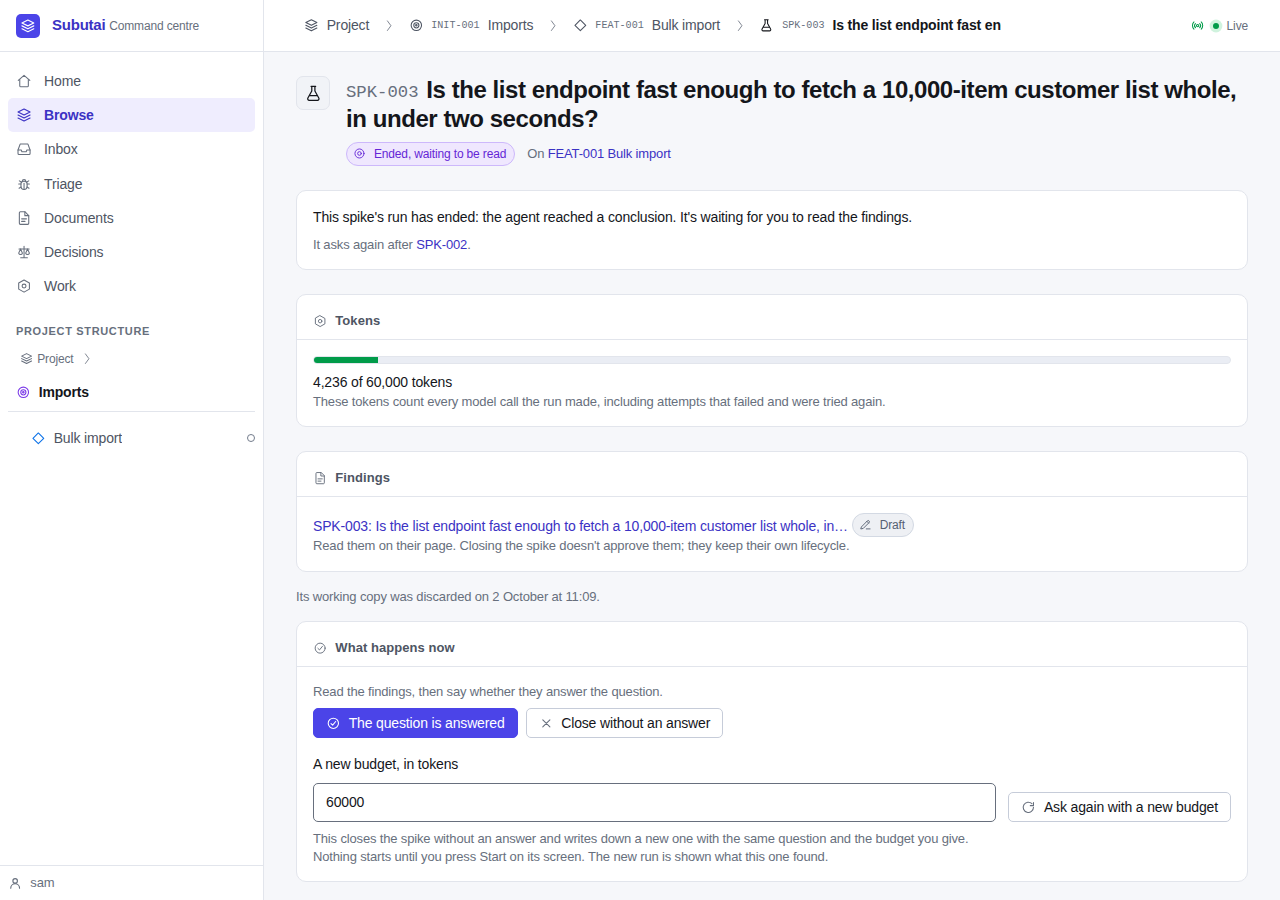
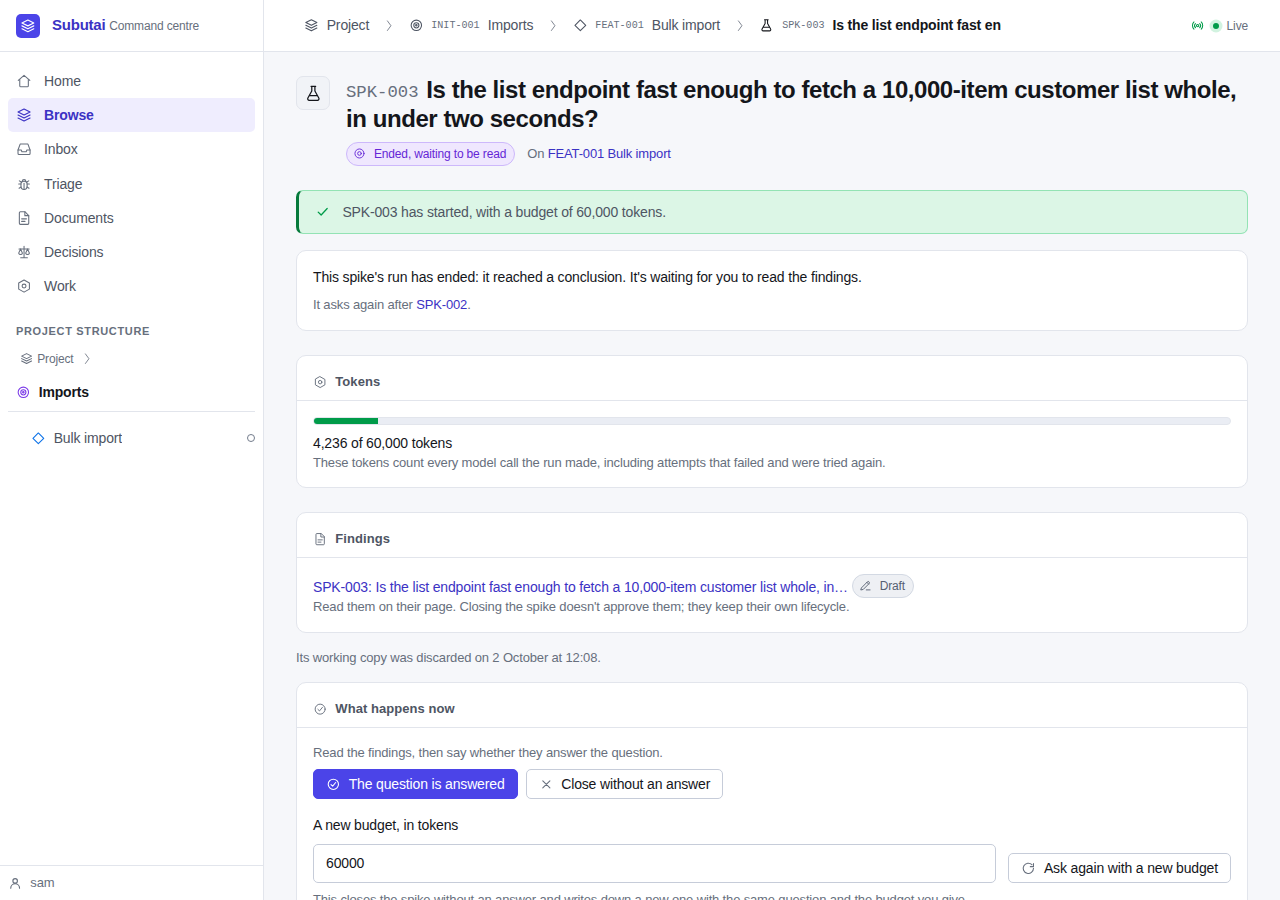
docs: SPEC-021 walkthrough, and the round-3 code reviews
Claude-Session: https://claude.ai/code/session_01WBzM8Gnf3d2js91g8pqbep

diff --git a/docs/walkthrough-spec-021/walk.js b/docs/walkthrough-spec-021/walk.js
@@ -31,7 +31,7 @@ const mcp = (name, args) => {
   mcp('create_initiative', { slug: 'imports', name: 'Imports', description: 'Bring a customer\'s existing records into the product.' });
   mcp('create_feature', { initiative_path: 'imports', slug: 'bulk-import', name: 'Bulk import', description: 'Import a whole customer list in one go.', design_document: false });
   const chat = mcp('create_spike', { on: 'imports/bulk-import', question: 'Can the import screen show a progress bar that updates every second?' });
-  mcp('start_spike', { id: chat.id || 'SPK-001' });
+  mcp('start_spike', { spike: chat.id || 'SPK-001' });
 
   const browser = await chromium.launch({ executablePath: '/opt/pw-browsers/chromium', args: ['--no-proxy-server'] });
   const page = await browser.newPage({ viewport: { width: 1280, height: 900 } });
@@ -115,7 +115,7 @@ const mcp = (name, args) => {
   await shot('12-second-spike-start-screen.png', 'text=What the agent will be given');
   await page.locator('form[action="/ui/spikes/start"] button[type=submit]').click();
   await expectText('has started, with a budget of 60,000 tokens');
-  await reloadUntil('the agent reached a conclusion');
+  await reloadUntil('it reached a conclusion');
   await shot('13-second-spike-concluded.png');
   await page.locator('a[href^="/ui/d/"]').first().click();
   await expectText('well inside the two-second target');
@@ -135,7 +135,7 @@ const mcp = (name, args) => {
   await shot('17-spikes-list.png');
 
   // 10. The chat agent reads what happened.
-  mcp('get_spike', { id: 'SPK-003' });
+  mcp('get_spike', { spike: 'SPK-003' });
 
   fs.writeFileSync(`${out}/mcp-output.txt`, log.join('\n') + '\n');
   await browser.close();

diff --git a/docs/reviews/REVIEW-021-spikes/code-round-3-bugs.md b/docs/reviews/REVIEW-021-spikes/code-round-3-bugs.md
@@ -1,0 +1,137 @@
+# M14 (spikes), round 3: bugs and spec-conformance review
+
+Branch `claude/subutai-m14-spikes` at `4a565d3`. Fix diff reviewed: `00e918e..HEAD`, plus a final pass over `git diff main...HEAD -- internal cmd`. Contract: SPEC-021, with FR-6.3 as amended.
+
+**Verdict: no major defects remain.** Round-2 finding 1 is fixed, and the fix holds up. Every other round-2 minor is either fixed or written into FR-6.3 as an accepted limit, except 7 (findings on disk for a TODO question) and 8 (tokens added after the end). I found three new minor issues.
+
+How I checked:
+- `go vet ./...` is clean.
+- `SUBUTAI_TEST_DB_SUFFIX=_rev3 go test -race -count=1 ./...` passes in every package. The server package took 182s, so the integration tests ran.
+- I tested `rev-list --stdin` with `^sha` lines, including a negated blob tag and a missing object, using plain git in the scratchpad (now deleted).
+- I edited no repository files. `git status` is **not** clean, but not because of this review. Another session is running `docs/walkthrough-spec-021/walk.js` (pids 19295 and 20000, started 12:06) and is rewriting `docs/walkthrough-spec-021/*.png`. I left those files alone.
+
+## New findings
+
+### N1. minor: the retry-time record hides leaks made after the working copy is remade
+**Where:**
+- `internal/server/spikes_leak.go:68-70`: `spikeKept` returns any earlier `spike.code_kept` record unchanged.
+- `spikes_end.go:247-254`: the check that runs before the remake.
+
+**What happens:**
+1. A retry finds a used working copy damaged. The check finds a leak (say `keep-1`) and records it.
+2. The worktree is remade. Its old reflog is pruned and a new one starts.
+3. In the new working copy, the agent commits and branches `keep-2`.
+4. At the end of the run, `spikeKept` finds the earlier record and returns it without checking again.
+
+The findings and the checkpoint name only `keep-1`. A person is still warned that code was kept, so this is not fail-open, but the list of refs is incomplete. The same short-circuit happens when the retry check could not run at all.
+
+There is a second, more contrived gap. When the retry check finds nothing, nothing is recorded, and the old reflog is pruned anyway. Commits made before the remake can then be put on a ref by their SHA from the new working copy, and nothing reports them. That needs deliberate evasion, close to the limits FR-6.3 already accepts.
+
+**Fix:** at the end of the run, always run the check against the current working copy. Merge its refs with the earlier record's, and do not raise a second checkpoint while one is still pending; `CreateCheckpoint` is already idempotent for that. Alternatively, before the remake, add the old reflog's "made" SHAs to a stored set that the end-of-run check also uses.
+
+### N2. minor: the check before a remake doesn't re-read the spike under `spikeEndMu`, so a racing ending can raise a false "couldn't check" checkpoint
+**Where:** `spikes_end.go:247-251`. `sp` was read by `planSpike` (`spikes_plan.go:101-108`) before the lock was taken.
+
+**What happens:**
+1. An attempt is given up while it is still in `planSpike`, for example after a stall during planning.
+2. `DispatchExhausted` triggers `EndSpike`. That runs the check, finds nothing, so records nothing, then discards the working copy and its admin dir.
+3. The old goroutine then sees no `.git` and calls `spikeKept`. There is no earlier record, and git has no admin dir.
+4. Because `TokensUsed > 0`, the check reports "the working copy was removed". It writes an audit row and raises a `spike-code-kept` checkpoint on a spike that has already ended cleanly.
+5. It then remakes a worktree for the ended spike. The leftover sweep removes that on the next heartbeat. The plan itself is stopped by `stillCurrent` before any model call.
+
+The window is narrow, and the race already existed for the remake. The spurious checkpoint is new.
+
+**Deadlock:** none. `ensureSpikeWorktree` is called only from `planSpike` and from tests. `planSpike` is never reached while `spikeEndMu` is held: `EndSpike`, `recordSpikeEnd`, `finishSpikeEnding` and the reconcile `finish` closure don't plan or dispatch synchronously. Go's mutex is not re-entrant, but nothing re-enters it.
+
+**Fix:** inside the lock, run `cur, err := store.GetSpike(...)`. If `cur.State != store.SpikeRunning`, return an error ("… is not running") before running the check or the remake. Pass `cur` to `spikeKept`, so `TokensUsed` is current too.
+
+### N3. minor (nit): `escapeLeadingHash` handles only `#`
+**Where:** `spikes.go:639-646`.
+
+**What happens:** a question that begins with `- `, `* `, `+ `, `> `, `1. `, `|` or `===` still renders as a list, a quote, a table or a setext underline inside the Question section. `#` was the case actually reported, and the fix is correct for it. The title line `# # of workers…` renders correctly.
+
+**Fix:** escape the first character when it is one of the Markdown block starters, or accept the behaviour.
+
+## Round-2 finding 1: the fix is sound
+
+The `?did=` change and `escapeLeadingHash` were part of this item's diff. Their verdicts are the round-2 table's rows 6 and 7 and new finding N3.
+
+- **`leakedRefs` fails closed** (`spikes_leak.go:131-142`).
+  - A missing admin dir plus a missing directory plus `TokensUsed > 0` gives "the working copy was removed, so git's record of it is gone".
+  - `TokensUsed > 0` is a sound signal. `runLoop` calls `b.Add` (which runs `AddSpikeTokens`) after every model call and before any tool runs (`dispatch.go:481-487` and `:530`), and the planner makes the worktree before the first call. No tool can run in a working copy while `tokens_used` is still 0.
+  - One caveat: the signal relies on the provider reporting usage. Only the Anthropic provider exists, and it always does.
+  - `EndSpike` re-reads the spike under the lock (`spikes_end.go:71`), so `TokensUsed` is current there.
+  - Tested by "a working copy deleted and pruned away", including the `couldnt_check` payload.
+- **The check before a remake** (`spikes_end.go:247-254`). It runs only when `.git` is missing and tokens were used.
+  - If the `.git` file was removed but the admin dir survives, `worktreeAdminDir` still finds it through `gitdir`, so the reflog is read before `prune` deletes it.
+  - Tested by "a damaged working copy that a retry would remake": one audit row and one checkpoint.
+  - No deadlock. There is a race, which is N2. The incomplete record is N1.
+- **De-duplication.** `spikeKept` returns the earlier `SpikeKeptRecord`, so the end of the run writes neither a second audit row nor a second checkpoint.
+  - `CreateCheckpoint` was **not changed** by M14. `ON CONFLICT … DO NOTHING` returning `nil, nil` is how it already behaved on main. Only the comment at `spikes_leak.go:99` is new.
+  - `notifyCheckpointRaised(nil)` is a no-op (`ui.go:1055`).
+  - No other kind of checkpoint is affected.
+- **`gitInWithStdin` and `rev-list --stdin`.** Lines of SHAs and `^sha` give the same set as `<made…> --not base refs…`.
+  - Verified with plain git. A `^` on an annotated tag or a blob is accepted.
+  - A start-ref object that has since been garbage-collected gives "bad object", and the check fails closed. That was already true when the SHAs were passed as arguments.
+  - Stderr is captured and quoted in the reason.
+- **Payload.** `refs` is now `[]`, never `null`, and `couldnt_check` is added. The test asserts both.
+- **`Run` field and `observe.go` `conclude`.**
+  - The change is inside `if d.Purpose == "run-spike"`, and runs only after the `failed`/`cancelled`/`queued`/`running` and `!IsLatest` returns. Non-spike run pages are unchanged.
+  - The concluded, budget and turn-limit sentences are word-for-word as before, matching FR-8.4.
+  - New: a succeeded run-spike dispatch whose spike ended `failed`, or ended in an unknown way, now says "Its run failed." or "Its run is over." Before, it fell through to the outcome JSON. This is harmless, and more accurate.
+
+## Verification table: round 2's findings
+
+| # | Sev | Finding | Status | Evidence |
+|---|---|---|---|---|
+| 1 | major | Fails open when the working copy is deleted and pruned, or remade on a retry | **Fixed** | `spikes_leak.go:131-142`, `spikes_end.go:247-254`, FR-6.3 amended, two new subtests. Residuals: N1 and N2 (minor). |
+| 2 | minor | Reflog-message spoof; `commit-tree` / `update-ref` | **Accepted limit** | FR-6.3 "What the check can't see", bullet 2. |
+| 3 | minor | False positive on merge, rebase or pull of a newer main | **Accepted limit** | FR-6.3 "It may also report too much…". The checkpoint is dismissable. |
+| 4 | minor | `core.logAllRefUpdates=false` means every spike reports "couldn't check" | **Accepted limit** | FR-6.3 bullet 3 ("the safe direction"). |
+| 5 | minor | Start-ref SHAs on the command line (E2BIG) | **Fixed** | `gitInWithStdin` and `rev-list --stdin` (`planner.go:482-495`, `spikes_leak.go:160-165`). One `rev-list` is still spawned per changed ref (`:187`), which is fine at normal scale. |
+| 6 | minor | A crafted `?did=` shows a false notice | **Fixed** | `answered`/`unanswered` compare `ClosedAs`; `started` needs `StartedAt` (`ui_spikes.go:461-470`); `TestSpikeNoticeSaysOnlyWhatHappened`. `did=started` on an ended or closed spike that did run still says "has started, with a budget of …". That is true, so I accept it. |
+| 7 | minor | Findings for a TODO or `{{` question don't validate on disk; leading `#` | **Partly fixed** | The leading `#` is escaped and tested. The TODO/`{{` file on disk still fails `lifecycle.Validate`. FR-2.1 doesn't accept this, and the manifest doesn't exempt the Question. **Open.** |
+| 8 | minor | `AddSpikeTokens` adds to an ended spike; the page note doesn't explain it | **Not fixed** | `store/spikes.go:297-305` is unchanged, and so is the TokensNote at `ui_spikes.go:302`. **Open.** |
+| 9 | minor | Checkpoint payload `"refs": null`, no `couldnt_check` | **Fixed** | `spikes_leak.go:86-92`; asserted in a test. |
+| 10a | minor | Dead `OpenSpikesUnderInitiative` | **Fixed** | Deleted, and its test is reduced to `TestEndedSpikesCount`. |
+| 10b | minor | `src == "override"` | **Fixed** | `store.BudgetFromOverride` and `BudgetFromDefault` (`ui_spikes.go:306`, `:595`). |
+| 10c | minor | `conclude` has its own switch | **Fixed** | `SpikeEndingOf(...).Run`. |
+| 10d | minor | MCP's own budget-source words | **Fixed** | `spikeBudgetSourceWords` (`mcp_spike_tools.go:194-199`). |
+| 10e | minor | `spikeOwnerRef` branches on `FeatureID` | **Fixed** | It uses `sp.Owner()` and carries `URL` (`ui_spikes.go:109-125`). |
+| 10f | minor | The POSTs answer a bad id with 400 | **Resolved** | Unknown id gives 404 through `notFoundOrErr`, malformed gives 400; `TestSpikePostsAnswerBadIDs`. |
+
+## Final adversarial pass (`main...HEAD -- internal cmd`): no new major defects
+
+- **The hard stop** (`dispatch.go:452-560`).
+  - Before every call, the run stops when `spent >= Limit`, or after turn 0 when `spent + lastCall > Limit`.
+  - Every paid call is added before its tools run. On the crossing turn, only `EarlyTools` run. An outcome on the crossing turn concludes, as FR-5 says. A failed validation on the crossing turn then stops.
+  - A nudge on the last turn is still a budget stop.
+  - Known and accepted: a call can overshoot the budget by up to its own size, and a retried attempt's first call has no `lastCall` estimate (`turn > 0`). Both are bounded by `spent >= Limit`.
+- **No-merge path.**
+  - The worktree is made `--detach`, so it has no branch.
+  - `isWorktreePurpose` adds `run-spike` only for profile tools.
+  - `decideDispatchSucceeded` and `DispatchExhausted` route `run-spike` to the spike rules before anything in phase 2, so no merge or verification action can fire.
+  - Milestone membership refuses spikes in the API, MCP and UI forms. `resolveOwner` and `mcpResolveOwner` refuse attaching documents to a spike.
+- **Start and close only from the web UI.**
+  - The only callers of `StartSpike` and `CloseSpike` are `ui_spikes.go:684` and `:748`.
+  - No `/api` route or MCP tool starts or closes a spike.
+  - The MCP `initialize` text says so.
+- **Regressions to features and bugs.**
+  - `FeatureHistory` adds only `spike.started` and `spike.ended` (`WHERE e.ref_type <> 'spike' OR …`). `FeatureRuns` and the token totals are untouched.
+  - The timeline `CurrentIndex` and aside logic leave the current moment of a feature without spikes where it was. The feature and bug timeline tests pass.
+  - G5 adds open spike IDs through `G5Open`, on both archive routes.
+  - The changes in `groupThousands` and `memberFromForm` keep their behaviour.
+  - `answerOptions` adds only the `spike-code-kept` kind.
+  - The full suite passes.
+
+## Minor findings still open across all rounds (bug-report candidates)
+
+1. **N1:** the record made before a remake is final, so leaks made after the remake aren't named. A clean pre-remake check also drops the old reflog's commits (`spikes_leak.go:68-70`, `spikes_end.go:247-254`).
+2. **N2:** the check before a remake doesn't re-read the spike's state under `spikeEndMu`, so a racing `EndSpike` can raise a spurious "couldn't check" checkpoint on an ended spike, and a worktree is remade for it (`spikes_end.go:247-251`).
+3. **N3:** only a leading `#` is escaped in the findings' Question. Other Markdown block starters still render as blocks (`spikes.go:639-646`).
+4. **R2-7 / R1-1 residual:** the findings file on disk for a question containing TODO or `{{` fails `lifecycle.Validate`. Either accept this in FR-2.1, or exempt the Question section in the findings manifest.
+5. **R2-8 / R1-9:** `AddSpikeTokens` still adds to an ended spike (`store/spikes.go:297-305`), so the page's total can differ from the findings. Either guard the update with `AND state = 'running'`, or extend the TokensNote.
+6. **R2-5 residual (scale):** one `rev-list` is spawned per changed ref (`spikes_leak.go:187`). Fine today; batch it if repositories with many moving refs matter.
+7. **Quality-round leftover:** the `StartScreen.Workers/Running/Free` trio is kept. It was optional.
+
+These are accepted limits written into FR-6.3, not bugs: the reflog-message spoof and `commit-tree`/`update-ref`; commits made outside the worktree; `core.logAllRefUpdates=false`; and the false positive when the agent merges a newer main.

diff --git a/docs/walkthrough-spec-021.md b/docs/walkthrough-spec-021.md
@@ -1,0 +1,170 @@
+# Walkthrough — SPEC-021, spikes
+
+**Date:** 2026-10-02
+**Spec:** [SPEC-021](specs/SPEC-021-spikes.md), draft for Sam's approval
+**Review:** [REVIEW-021](reviews/REVIEW-021-spikes.md)
+**Handoff:** [M14 handoff](notes/handoff-M14-2026-10-02.md)
+
+This is the definition-of-done demo (SPEC-021 DoD 8). It ran a throwaway
+project on a real Postgres **with no AI provider**. The project lived at
+`/var/tmp/m14demo`, a short path, because a unix socket path can't be longer
+than 108 bytes. The person's side ran in the browser, with Playwright and the
+pre-installed Chromium. The chat agent's side ran as plain MCP JSON-RPC calls,
+which is what a chat AI sends.
+
+**How a spike ran without a model.** The provider's `base_url` points at
+[`fake_provider.py`](walkthrough-spec-021/fake_provider.py), a small HTTP
+server that speaks the Messages API and plays the spike's agent from a
+script. It isn't a model, and it decides nothing about Subutai's behaviour:
+- a first spike saves a draft with `save_findings`, then keeps listing files
+  and never finishes, so it runs into its budget;
+- a spike that asks again (its prompt holds "# What the last spike found")
+  saves its findings and finishes with `finish_spike`.
+
+Its token counts are a quarter of each request's size, so the totals grow
+the way a real conversation's do. Everything else, from the start screen to
+the hard stop, the write-up, the discarded worktree and the close, is the
+real server.
+
+The scripts are in [walkthrough-spec-021/](walkthrough-spec-021/):
+
+```sh
+bash docs/walkthrough-spec-021/setup.sh
+node docs/walkthrough-spec-021/walk.js docs/walkthrough-spec-021
+```
+
+The chat agent's calls are kept in
+[mcp-output.txt](walkthrough-spec-021/mcp-output.txt), and the demo
+repository's history, worktrees and branches after the walk in
+[repo-after.txt](walkthrough-spec-021/repo-after.txt).
+
+## What the chat agent can and can't do
+
+The chat agent plans an initiative and a feature, and writes a spike's
+question down with `create_spike`. The spike is `SPK-001`, an idea, with the
+project's default budget of 1,000,000 tokens. It then tries `start_spike`,
+and the server answers "there is no tool called "start_spike" on this
+server". Starting a spike spends tokens, so only a person can do it, in the
+web UI (SD-5).
+
+## 1. A person writes a spike down
+
+On the feature's page, **New spike** opens a dialog with the question and an
+optional budget. Sam asks whether the list endpoint is fast enough to fetch a
+10,000-item list whole, with a budget of 20,000 tokens.
+
+![The New spike dialog](walkthrough-spec-021/01-new-spike-dialog.png)
+
+The feature's page now lists both spikes in its **Spikes** section.
+
+![Spikes on the feature](walkthrough-spec-021/02-spikes-on-the-feature.png)
+
+The spike's own page says it hasn't started yet, and offers **Start this
+spike…** and **Close without running**.
+
+![The spike, not started](walkthrough-spec-021/03-spike-not-started.png)
+
+## 2. The start screen
+
+Before anything is committed, the start screen shows the question, who will
+run it ("The spike runner runs it, on claude-sonnet-5."), the free agent
+slots, the forecast (there aren't enough earlier spikes yet), the budget and
+what happens when it runs out, what the agent will be given (the question,
+the decisions that apply, and its tools), and where it works: a throwaway
+copy of the code that is discarded when the run ends and is never merged.
+
+![The start screen](walkthrough-spec-021/04-start-screen.png)
+
+![The start screen, lower](walkthrough-spec-021/05-start-screen-budget.png)
+
+## 3. It runs, and stops hard at its budget
+
+Pressing **Start** records the budget, moves the spike to running and queues
+its run, then redirects to its page: "SPK-002 has started, with a budget of
+20,000 tokens."
+
+![Started](walkthrough-spec-021/06-started.png)
+
+The scripted agent saves a draft on its first turn, then keeps working and
+never finishes. The run stops after seven calls, at 19,944 tokens, because the
+next call could only have taken it over 20,000. The page says the run has
+ended at its budget and is waiting for Sam, shows the tokens against the
+budget, links the findings, and says the working copy was discarded.
+
+![Stopped at its budget](walkthrough-spec-021/07-stopped-at-its-budget.png)
+
+![Tokens and findings](walkthrough-spec-021/08-tokens-and-findings.png)
+
+The findings are an ordinary draft document, `SPK-002-findings`. They hold the
+question, the draft the agent saved, and the server's **How this spike
+ended**: "The spike stopped at its budget, because its next step would have
+gone over. It used 19,944 of its 20,000 tokens. The findings above are what
+it had saved by then."
+
+![The findings at the stop](walkthrough-spec-021/09-findings-at-the-stop.png)
+
+The run's transcript ends with the stop: "The run stopped here because it
+reached its budget of 20,000 tokens."
+
+![The run, stopped](walkthrough-spec-021/10-run-stopped.png)
+
+## 4. Asking again, with a second budget
+
+The findings don't answer the question. Sam enters a new budget of 60,000 and
+presses **Ask again with a new budget**. That closes `SPK-002` without an
+answer, writes down `SPK-003` with the same question, and opens its start
+screen, which shows that the agent will be given what the last spike found.
+
+![Ask again](walkthrough-spec-021/11-ask-again.png)
+
+![The second spike's start screen](walkthrough-spec-021/12-second-spike-start-screen.png)
+
+Sam starts it. This time the agent finishes, at 4,236 tokens.
+
+![The second spike concluded](walkthrough-spec-021/13-second-spike-concluded.png)
+
+![Its findings](walkthrough-spec-021/14-findings-concluded.png)
+
+## 5. Closing it
+
+Sam reads the findings and presses **The question is answered**. The spike is
+closed, and its page says how to build on it: "To build on this, cite
+SPK-003-findings in a design, then create a feature in the normal way."
+Closing doesn't approve the findings; they keep their own lifecycle.
+
+![Closed as answered](walkthrough-spec-021/15-closed-answered.png)
+
+## 6. Where spikes show
+
+On the feature's timeline, each spike's start and end is a muted aside. The
+feature's own moment, Created, stays current, and its runs and tokens don't
+include the spikes'.
+
+![The feature's timeline](walkthrough-spec-021/16-feature-timeline.png)
+
+`/ui/spikes` lists every spike, open ones first.
+
+![The spikes list](walkthrough-spec-021/17-spikes-list.png)
+
+Finally the chat agent reads `SPK-003` with `get_spike`: closed as answered,
+concluded, 4,236 tokens of 60,000, following `SPK-002`, with its findings'
+ID, path and state.
+
+## 7. No code was kept
+
+After the walk, the demo repository's history holds the project's own commits
+and the two findings commits, and nothing else. `git worktree list` shows only
+the main checkout, and the only branch is `master`
+([repo-after.txt](walkthrough-spec-021/repo-after.txt)).
+
+## What the demo doesn't show, and where it is proved instead
+
+- **The leak check**: a run that keeps code on a branch, a tag or a stash, or
+  that deletes its own working copy. That is `TestSpikeHasNoMergePath`, with a
+  subtest for each way.
+- **Turn limits, failures, retries and restarts**: `TestSpikeTurnLimitEndsTheRun`,
+  `TestSpikeWorktreeIsDiscardedWhenItEnds`,
+  `TestExhaustedSpikeEndsWithoutRetryQuestion`,
+  `TestSpikeBudgetCarriesAcrossAttempts` and `TestSpikeEndIsReconciled`.
+- **Decisions in the prompt**: `TestSpikePromptCarriesDecisionsAndQuestion`.
+  The demo project has no decisions, so its start screen says none apply.

diff --git a/docs/reviews/REVIEW-021-spikes/code-round-3-quality.md b/docs/reviews/REVIEW-021-spikes/code-round-3-quality.md
@@ -1,0 +1,56 @@
+# M14 spikes: code-quality review, round 3 (HEAD 4a565d3)
+gofmt and go vet clean. No majors. Fix diff reviewed (13 files).
+
+## Round-2 findings
+1 dead OpenSpikesUnderInitiative: FIXED (func and test deleted; renamed test TestEndedSpikesCount). spike_open_ids.go still a separate file (minor, left). Subtree CTE now covered only indirectly (lifecycle TestG5CountsOpenSpikes, integration TestOpenSpikesBlockArchiving...), acceptable.
+2 "override"/"default" literals: FIXED at ui_spikes.go:306, :595; mcp_spike_tools.go uses new spikeBudgetSourceWords map (keyed by constants, package-level). #18 FIXED.
+3 dedupe loop: FIXED (slices.Contains, tool names from dispatch.SaveFindingsTool().Name/FinishSpikeTool().Name). Literals in spikes_plan.go:161/planSpike not re-checked, left.
+4 turnCapFor still in spikes_end.go:147, planner.go/documents.go not switched: LEFT.
+5 spikeOwnerOf prefix: FIXED (URL field on spikeOwnerInfo, Owner() used).
+6 spikeNoticeFor: now state-checked and tested (TestSpikeNoticeSaysOnlyWhatHappened). Fixed.
+7 groupThousands wrapper: LEFT (optional).
+8 joinIDs/joinWords: LEFT.
+9 timeline "idea" neutral state (timeline.go:255): LEFT.
+10 Strip.last comment: LEFT.
+11 ARG_MAX: FIXED via rev-list --stdin (see N1 for placement).
+12 empty switch case: FIXED with comment.
+13 generic names setOf/isSHA/reason/canonPath: LEFT.
+14 writeFindings rebuilds: LEFT.
+15 startSpike budget roundabout: LEFT.
+16 numField/strField (ui_spikes.go:255,262): LEFT.
+17 `code` template func name: LEFT.
+19 wants/lacks shadowing (integration_spikes_ui_test.go:44,53): LEFT.
+
+## New findings in the fix (all minor)
+N1 gitInWithStdin sits in planner.go:482 beside gitIn. That is defensible (they are twins) but the only caller is spikes_leak.go, and the two functions duplicate ~8 lines (error format, stderr capture). Make gitIn call gitInWithStdin(dir, "", args...) (nil Stdin when empty), or move both to a git helper file.
+N2 `SpikeEnding.Run` is a good fit for the table, but observe.go:750 changed behaviour: SpikeFailed and any unknown SpikeHow now produce a spike conclusion ("Its run failed." / "Its run is over.") where before they fell through to the outcome-JSON path. Probably intended and better, but not mentioned in the commit; the fallback sentence "Its run is over." is a fifth literal repeated in the SpikeEndingOf default. Also the `p.SpikeHow != ""` guard keeps the old shape; fine.
+N3 spikeKept now has two callers that must hold spikeEndMu (finishSpikeEnding path and ensureSpikeWorktree, spikes_end.go:248-250). The lock/unlock pair is inlined three times (68, 248, 312) and the requirement is only in the ensureSpikeWorktree comment, not on spikeKept's doc. Add "callers hold spikeEndMu" to spikeKept, or a small `s.withSpikeEnd(func)` helper. Check it cannot deadlock: ensureSpikeWorktree runs in planSpike, not under spikeEndMu, so fine today.
+N4 ensureSpikeWorktree comment is now a 6-line paragraph mixing two concerns (what it makes, why it records first). Reads fine but "the end of the run then finds that record" relies on spikeKept's prior-record shortcut; a test covers it (damaged working copy subtest).
+N5 `escapeLeadingHash` handles only "#" at the start; the question is one line after oneLineKeep, so that is enough, but leading whitespace is trimmed first (order: TrimSpace inside escape call, correct). A question starting with "---", "=== " or "> " is not a heading risk. Fine. Doc comment accurate. Test is appended to TestSpikeWithATodoQuestionConcludes rather than a subtest, which makes that test longer (it now creates two spikes with unrelated `hash` var shadow of nothing but reusing `text`); a t.Run would match the leak tests.
+N6 TestSpikePostsAnswerBadIDs: name says POSTs but it also checks a GET at the end, using bare http.Get with the resp body never closed and `resp` printed with %v when nil-or-not. Use h's get helper (as the neighbouring TestSpikeBadIDsAnswerAlike does if it has one) and close the body. The test comment says "as the page's GET does for an unknown one" which is the justification, fine.
+N7 TestSpikeNoticeSaysOnlyWhatHappened: good table test, names clear, builds Spike literals directly. Minor: case names "answered, answered" / "unanswered, unanswered" read as typos; "did=answered on an answered spike" is clearer. Missing case: started with State closed (ran, then closed) which spikeNoticeFor accepts via StartedAt only; arguably fine.
+N8 the two new leak subtests are good (they assert the checkpoint payload and audit counts once), but the "retry would remake" subtest queries checkpoints with raw SQL inline (`SELECT count(*) FROM checkpoints ...`) with context.Background() while the rest use the harness; the keptCheckpoints helper already returns the same rows (it is asserted one line above with len(cps) != 1), so the raw count is redundant. Remove it.
+N9 the "deleted and pruned" subtest builds its script by string-concatenating h.root into single quotes; a path with a quote breaks it. Test-only, harmless in t.TempDir.
+N10 spikes_leak.go: `if kept.Refs == nil { kept.Refs = []string{} }` is there so JSON gives [] not null; comment says nothing. Add "so the payload says [] not null". The new `payload` map also now drops "couldnt_check" when empty, good.
+N11 leakedRefs new error text "the working copy was removed, so git's record of it is gone" is duplicated as a literal between spikes_leak.go and the test's expected sentence; acceptable for a test.
+
+## Consolidated open quality minors (rounds 1-3), bug-report candidates
+R1/R2 leftovers:
+- store spike_open_ids.go (13-line file) and spike_mcp_reads.go: file layout; SpikesFollowing vs SpikeFollowedBy duplicate reads (r1 #33).
+- turnCapFor (spikes_end.go:147) belongs in planner.go; planner.go:146,261,312 and documents.go:536 still inline it (r2 #4).
+- groupThousands wrapper over dispatch.Thousands, 8 callers; server imports dispatch for a formatter (r2 #7).
+- lifecycle joinIDs duplicates server joinWords (r2 #8).
+- timeline.go:255 aside moments use state "idea" as neutral, so data-state="idea" means "no state" in CSS; timeline imports store for a phrase table (r2 #9).
+- timeline Strip.last / Current loop lacks a comment (r2 #10).
+- spikes_leak.go generic helper names setOf, isSHA, reason, canonPath; worktreeCommits quadratic slices.Contains (r2 #13).
+- spikes.go writeFindings builds findings up to 4 times; uncommented defused rebuild; hand-built filepath.Join(home,id)+".md" duplicates freePath (r2 #14).
+- startSpike budget != 0 / == 0 roundabout (r2 #15).
+- ui_spikes.go:255,262 numField/strField generic names (r1 #28, r2 #16).
+- ui.go `code` template func name (r2 #17).
+- wants/lacks helper parameter shadows function (integration_spikes_ui_test.go:44,53) (r1 #37).
+- startSpikeQuiet marks dispatch running with raw SQL (r2 #19).
+- testdb suffix change is scope creep in its own commit 9eb4f33 (r1 #35).
+- ui_entity.go:612 Terminal() pre-existing (r1 #36).
+- long appendix/no-merge tests not split (r1 #39).
+- spikes_plan.go:161 and planSpike still repeat tool-name literals (r2 #3, partly).
+R3 new: N1 (gitIn/gitInWithStdin duplication and placement), N2 (observe.go behaviour change and repeated fallback literal), N3 (spikeEndMu requirement undocumented on spikeKept, lock triple inlined), N5 (hash test appended instead of subtest), N6 (TestSpikePostsAnswerBadIDs name/GET/unclosed body), N7 (case names), N8 (redundant raw SQL in subtest), N10 (Refs nil comment).
